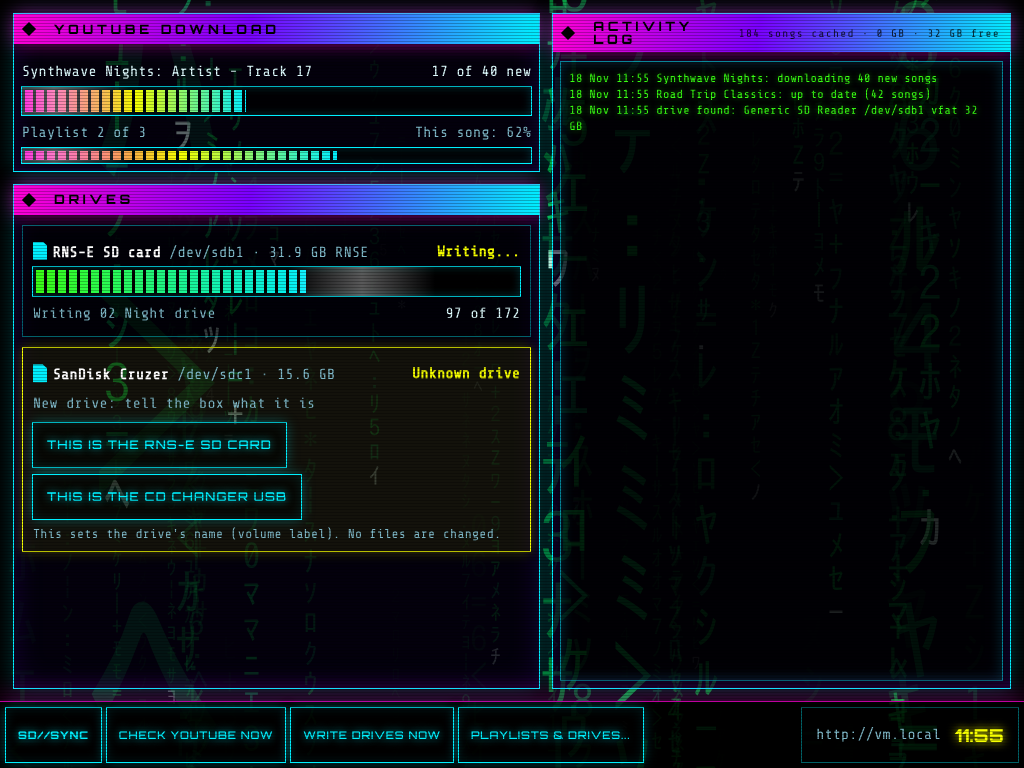
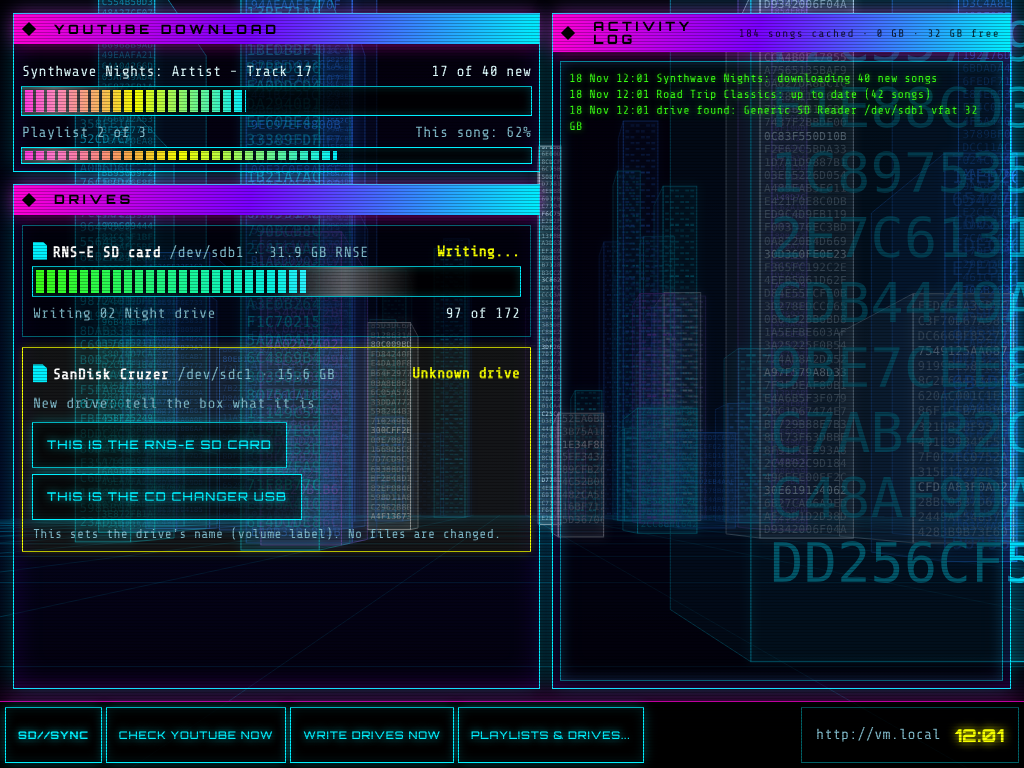
Add Gibson-style data tower background and make it the default
A glide down an avenue of tall translucent towers whose faces carry rows
of data scrolling upward, with a street grid and a slow side-to-side
weave. Original canvas code; drops towers on slow machines and pauses
while the monitor sleeps. Falling code and the data city stay selectable.

Panels on the monitor view are a bit more see-through so the background
shows, and /screen?bgonly shows the background alone.

Claude-Session: https://claude.ai/code/session_01VyLaJYr3qcfzPGv7ngq8GY

diff --git a/sdsync/theme.py b/sdsync/theme.py
@@ -268,7 +268,8 @@ pre.log{background:rgba(0,0,0,.6);color:var(--c4);text-shadow:0 0 6px rgba(57,25
 .tray{box-shadow:0 0 0 1px rgba(0,240,255,.4)!important;color:var(--c1)}
 .tray b{font:800 1.2em var(--head);color:var(--c3);text-shadow:0 0 10px var(--c3)}
 .desk{position:relative;z-index:1}
-.desk .panel{background:rgba(6,0,22,.55)}
+.desk .panel{background:rgba(6,0,22,.42)}
+.desk pre.log{background:rgba(0,0,0,.3)}
 .task{flex-wrap:wrap}
 .task button{font-size:.72em;letter-spacing:.08em;padding:6px 12px}
 .tray{min-width:0;overflow:hidden}
@@ -380,7 +381,87 @@ GLMATRIX_JS = r"""
 })();
 """
 
+# Flying between towers of data, in the spirit of the supercomputer scenes in
+# 90s hacker films. Original code: each tower is a translucent block whose faces
+# carry rows of data that scroll upward; the camera glides down an avenue
+# between them at street level, looking slightly up, and weaves side to side.
+GIBSON_JS = r"""
+(function(){
+ const c=document.getElementById('bg'); if(!c) return; const x=c.getContext('2d');
+ const COLS=[[0,220,255],[40,120,255],[150,90,255],[255,170,40],[230,240,255]];
+ const HEX='0123456789ABCDEF', NEAR=0.8, FAR=70, SPEED=0.09;
+ let W,H,t=0,last=0,camX=0,towers=[];
+ function size(){W=c.width=innerWidth;H=c.height=innerHeight}
+ const rows=n=>Array.from({length:n},()=>Array.from({length:12},()=>HEX[Math.random()*16|0]).join(''));
+ function tower(z){
+  const side=Math.random()<.5?-1:1, lane=1+(Math.random()*5|0);
+  const w=1.2+Math.random()*1.8, h=4+Math.pow(Math.random(),1.6)*26;
+  return {x0:side>0?lane*3.2-0.2:-lane*3.2-w+0.2, w:w, d:1.5+Math.random()*2.5, h:h, z:z,
+    col:COLS[Math.random()<.7?(Math.random()*2|0):(2+(Math.random()*3|0))],
+    rows:rows(40), speed:.3+Math.random()*1.2, off:Math.random()*40};
+ }
+ size(); addEventListener('resize',size);
+ for(let i=0;i<70;i++) towers.push(tower(NEAR+2+Math.random()*(FAR-NEAR)));
+ function P(X,Y,Z,f,cx,hy){return [cx+(X-camX)*f/Z, hy-(Y-1.0)*f/Z]}
+ function frame(now){
+  const cu=document.getElementById('curtain');
+  if(cu&&cu.classList.contains('on')){setTimeout(()=>requestAnimationFrame(frame),1000);return}
+  requestAnimationFrame(frame);
+  if(now-last<33) return;
+  if(last&&now-last>70&&towers.length>36) towers.length-=3;
+  last=now; t++;
+  const f=Math.min(W,H)*0.75, cx=W/2, hy=H*0.66;
+  camX=Math.sin(t*0.006)*1.6;
+  const g=x.createLinearGradient(0,0,0,H); g.addColorStop(0,'#000006'); g.addColorStop(.66,'#020822'); g.addColorStop(1,'#000');
+  x.fillStyle=g; x.fillRect(0,0,W,H);
+  // street grid
+  x.strokeStyle='rgba(0,200,255,.18)'; x.lineWidth=1; x.beginPath();
+  for(let i=-10;i<=10;i++){const a=P(i*3.2,0,NEAR,f,cx,hy),b=P(i*3.2,0,FAR,f,cx,hy);x.moveTo(a[0],a[1]);x.lineTo(b[0],b[1])}
+  for(let z=NEAR+(4-(t*SPEED)%4);z<FAR;z+=4){const a=P(-40,0,z,f,cx,hy),b=P(40,0,z,f,cx,hy);x.moveTo(a[0],a[1]);x.lineTo(b[0],b[1])}
+  x.stroke();
+  towers.sort((a,b)=>b.z-a.z);
+  x.textBaseline='top';
+  for(const tw of towers){
+   tw.z-=SPEED; if(tw.z<NEAR){Object.assign(tw,tower(FAR));continue}
+   const fog=Math.max(0,Math.min(1,(FAR-tw.z)/(FAR*0.6)));
+   const [r,gc,b]=tw.col, col=a=>`rgba(${r},${gc},${b},${a})`;
+   const x1=tw.x0+tw.w, zb=tw.z+tw.d;
+   const fl=P(tw.x0,0,tw.z,f,cx,hy), ft=P(x1,tw.h,tw.z,f,cx,hy);
+   // side face toward the street (a trapezoid)
+   const sx=(tw.x0>camX)?tw.x0:x1;
+   const s1=P(sx,0,tw.z,f,cx,hy), s2=P(sx,tw.h,tw.z,f,cx,hy), s3=P(sx,tw.h,zb,f,cx,hy), s4=P(sx,0,zb,f,cx,hy);
+   x.globalAlpha=fog;
+   x.fillStyle=col(.10); x.strokeStyle=col(.55);
+   x.beginPath();x.moveTo(s1[0],s1[1]);x.lineTo(s2[0],s2[1]);x.lineTo(s3[0],s3[1]);x.lineTo(s4[0],s4[1]);x.closePath();x.fill();x.stroke();
+   // front face with scrolling rows of data
+   const L=fl[0], R=ft[0], B=fl[1], T=ft[1], fw=R-L, fh=B-T;
+   if(R<0||L>W){x.globalAlpha=1;continue}
+   x.fillStyle=col(.16); x.fillRect(L,T,fw,fh);
+   x.shadowColor=col(1); x.shadowBlur=10; x.strokeStyle=col(.9); x.strokeRect(L,T,fw,fh); x.shadowBlur=0;
+   const rowH=(0.42*f)/tw.z;
+   if(rowH>=2.5){
+    x.save(); x.beginPath(); x.rect(L+1,T+1,fw-2,fh-2); x.clip();
+    const scroll=((t*tw.speed*0.05+tw.off)%1)*rowH, n=Math.ceil(fh/rowH)+1;
+    if(rowH>=7){x.font=Math.floor(rowH*0.85)+'px "DejaVu Sans Mono",monospace'}
+    for(let i=0;i<n;i++){
+     const y=B-(i+1)*rowH-scroll, row=tw.rows[(i+(t*tw.speed*0.05|0))%tw.rows.length];
+     const lit=((i*7+tw.off|0)%9===0);
+     x.fillStyle=col(lit?.95:.55);
+     if(rowH>=7) x.fillText(row,L+rowH*0.3,y);
+     else {for(let k=0;k<6;k++){if((k+i)%3) x.fillRect(L+fw*(0.06+k*0.15),y+rowH*0.3,fw*0.11,Math.max(1,rowH*0.35))}}
+    }
+    x.restore();
+   }
+   x.globalAlpha=1;
+  }
+ }
+ if(!matchMedia('(prefers-reduced-motion: reduce)').matches) requestAnimationFrame(frame);
+})();
+"""
+
+
 BACKGROUNDS = {
+    "gibson": ("Gibson: towers of data", "GIBSON_JS"),
     "glmatrix": ("3D falling code (xscreensaver GLMatrix style)", "GLMATRIX_JS"),
     "city": ("Data city fly-through", "CITY_JS"),
     "none": ("None", None),
@@ -388,5 +469,5 @@ BACKGROUNDS = {
 
 
 def background_js(name):
-    entry = BACKGROUNDS.get(name) or BACKGROUNDS["glmatrix"]
+    entry = BACKGROUNDS.get(name) or BACKGROUNDS["gibson"]
     return globals()[entry[1]] if entry[1] else ""

diff --git a/sdsync/web.py b/sdsync/web.py
@@ -155,11 +155,12 @@ document.getElementById('log').textContent=s.log.slice().reverse().join('\\n');}
 document.getElementById('clock').textContent='Offline';}}
 tick();setInterval(tick,1000);
 @@bg_js@@
+if(location.search.includes('bgonly'))document.querySelector('.desk').style.display='none';
 @@kiosk@@
 </script></body></html>"""
 
 
-def render(tpl, kiosk=False, look="cyber", background="glmatrix", **values):
+def render(tpl, kiosk=False, look="cyber", background="gibson", **values):
     cyber = look == "cyber"
     bg_js = theme.background_js(background) if cyber else ""
     out = (tpl.replace("@@css@@", theme.CSS).replace("@@theme_js@@", theme.JS)
@@ -308,7 +309,7 @@ def serve(service, host, port):
                             for p in cfg["playlists"])
                 host_name = os.uname().nodename
                 return self._send(200, render(
-                    SCREEN, kiosk, cfg.get('look', 'cyber'), cfg.get('background', 'glmatrix'), addr=esc(f"http://{host_name}.local"), targets_json=targets_json,
+                    SCREEN, kiosk, cfg.get('look', 'cyber'), cfg.get('background', 'gibson'), addr=esc(f"http://{host_name}.local"), targets_json=targets_json,
                     lib=f"{len(cfg['playlists'])} playlists · {songs} songs in library"))
             if path != "/":
                 return self._send(404, "Not found", "text/plain")
@@ -320,7 +321,7 @@ def serve(service, host, port):
             looks = "".join(
                 f"<option value='{v}'{' selected' if cfg.get('look', 'cyber') == v else ''}>{n}</option>"
                 for v, n in (("cyber", "Cyberspace (neon, hacker movie)"), ("classic", "Classic 90s desktop")))
-            cur_bg = cfg.get("background", "glmatrix")
+            cur_bg = cfg.get("background", "gibson")
             backgrounds = "".join(
                 f"<option value='{k}'{' selected' if k == cur_bg else ''}>{esc(v[0])}</option>"
                 for k, v in theme.BACKGROUNDS.items())

diff --git a/sdsync/config.py b/sdsync/config.py
@@ -25,7 +25,7 @@ DEFAULTS = {
     "screen_off_minutes": 5,       # monitor goes to standby after this long untouched (0 = never)
     "check_on_insert": True,       # plugging in a drive also checks YouTube (if last check > 1 h ago)
     "look": "cyber",               # "cyber" (neon hacker-movie screens) or "classic" (90s desktop)
-    "background": "glmatrix",      # monitor background in the cyber look: glmatrix, city or none
+    "background": "gibson",        # monitor background in the cyber look: gibson, glmatrix, city or none
 }
 
 # Each kind of drive the box writes. A drive is recognised by its FAT volume

diff --git a/README.md b/README.md
@@ -93,7 +93,10 @@ Two looks, switched under **Settings > Look**:
 - **Cyberspace** (default): neon magenta, cyan and yellow on black like the computer screens in
   90s hacker films, with an animated background behind the monitor view. Pick it under
   *Settings > Monitor background*:
-  - **3D falling code** (default), in the style of xscreensaver's *GLMatrix* hack by Jamie Zawinski
+  - **Gibson: towers of data** (default), a slow glide down an avenue of tall see-through towers
+    with data scrolling up their faces, like the supercomputer in the film. Open
+    `http://sdsync.local/screen?bgonly` to see it without the windows.
+  - **3D falling code**, in the style of xscreensaver's *GLMatrix* hack by Jamie Zawinski
     (redrawn from scratch for the browser; it doesn't need xscreensaver installed)
   - **Data city fly-through**, glowing towers of data
   - **None**
